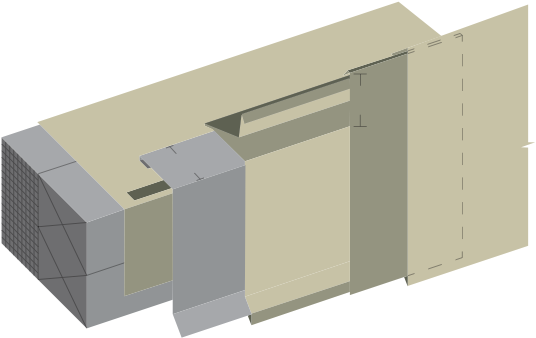
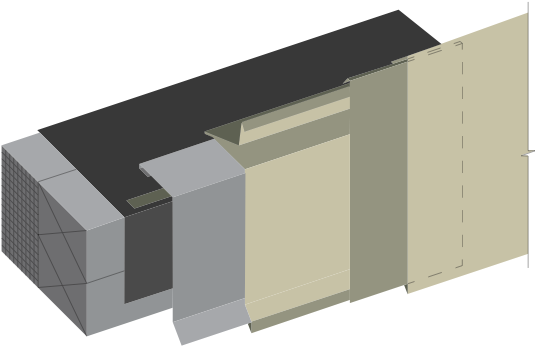
coloration

diff --git a/public/html/home.html b/public/html/home.html
@@ -3,8 +3,8 @@
         <div class="container">
             <div class="col s12 m5">
                 <div class="card-panel" id="index-banner-card">
-                    <span class="blue-text text-darken-4" id="index-banner-card-text">Streamlining the supply of construction materials to professional contractors for 100 years
-              </span>
+                    <h1 class="blue-text text-darken-4" id="index-banner-card-text">Streamlining the supply of construction materials to professional contractors for 100 years
+                    </h1>
                 </div>
             </div>
         </div>
@@ -19,8 +19,7 @@
                         <a ui-sref="streamline_panels({ cat: 'streamline_metal_panels' })" class="btn-floating btn-large halfway-fab waves-effect waves-light amber darken-3"><i class="material-icons">link</i></a>
                     </div>
                     <div class="card-content index-3-cards-content">
-                        <p>Our Streamline panels are the original series of metal cladding in the Tri-State region. We've since
-                            expanded to a variety of panel systems, always handmade in Queens, New York.</p>
+                        <h3 class="index-cards-text">Our Streamline panels are the original series of metal cladding, always handmade in Queens, New York. We've since expanded to a variety of panel systems.</h3 class="index-cards-text">
                     </div>
                 </div>
             </div>
@@ -32,8 +31,8 @@
                         <a ui-sref="streamline_panels({ cat: 'metal_flashing' })" class="btn-floating btn-large halfway-fab waves-effect waves-light amber darken-3"><i class="material-icons">link</i></a>
                     </div>
                     <div class="card-content index-3-cards-content">
-                        <p>To ensure your cladding and waterproofing systems remain protected from the elements, our ANSI/SPRI-ES1
-                            tested metal flashings tie into a variety of systems.</p>
+                        <h3 class="index-cards-text">To ensure your cladding and waterproofing systems remain protected from the elements, our ANSI/SPRI-ES1
+                            tested metal flashings tie into a variety of systems.</h3 class="index-cards-text">
                     </div>
                 </div>
             </div>
@@ -45,8 +44,8 @@
                         <a ui-sref="supplies" class="btn-floating btn-large halfway-fab waves-effect waves-light amber darken-3"><i class="material-icons">link</i></a>
                     </div>
                     <div class="card-content index-3-cards-content">
-                        <p>From below grade waterproofing, to air-and-vapor building wraps, to flat roofing, we are aligned
-                            with the best manufacturers of Division 7 building products in the industry.</p>
+                        <h3 class="index-cards-text">From below grade waterproofing, to air-and-vapor building wraps, to flat roofing, we are aligned
+                            with the best manufacturers of Division 7 building products in the industry.</h3 class="index-cards-text">
                     </div>
                 </div>
             </div>

diff --git a/public/scripts/controller_prods.js b/public/scripts/controller_prods.js
@@ -23,23 +23,57 @@ angular.module('app_litsco')
         };
 
         $scope.hoverColor = ' ';
-        $scope.hoverColorText = function (color) {
-            if (color) {
-                $scope.hoverColor = color;
-                updateSvgFill(this.hex);
+        $scope.hoverColorText = function (selectedHover) {
+            if (selectedHover.hex) {
+                $scope.hoverColor = selectedHover.color;
+                updateGradient(selectedHover.hex);
+                updateSvgFill();
             }
         };
 
         $scope.defaultFill = function (colors) {
             if (colors) {
                 var defaultColor = colors[Object.keys(colors)[0]];
-                updateSvgFill(defaultColor);
+                createGradient($('svg')[0], 'MyGradient', [
+                    { offset: '10%', 'stop-color': createShade(defaultColor, 0.2) },
+                    { offset: '100%', 'stop-color': defaultColor }
+                ]);
+                updateSvgFill();
                 return true;
             }
         };
 
+        function updateGradient(color) {
+            $('linearGradient#MyGradient #stop-0').attr('stop-color', createShade(color, 0.2));
+            $('linearGradient#MyGradient #stop-1').attr('stop-color', color);
+        }
+
+
+        function createGradient(svg, id, stops) {
+            var svgNS = svg.namespaceURI;
+            var grad = document.createElementNS(svgNS, 'linearGradient');
+            grad.setAttribute('id', id);
+            for (var i = 0; i < stops.length; i++) {
+                var attrs = stops[i];
+                var stop = document.createElementNS(svgNS, 'stop');
+                stop.id = 'stop-' + i;
+                for (var attr in attrs) {
+                    if (attrs.hasOwnProperty(attr)) stop.setAttribute(attr, attrs[attr]);
+                }
+                grad.appendChild(stop);
+            }
+
+            var defs = svg.querySelector('defs') || svg.insertBefore(document.createElementNS(svgNS, 'defs'), svg.firstChild);
+            return defs.appendChild(grad);
+        }
+
+        function createShade(color, percent) {
+            var f = parseInt(color.slice(1), 16), t = percent < 0 ? 0 : 255, p = percent < 0 ? percent * -1 : percent, R = f >> 16, G = f >> 8 & 0x00FF, B = f & 0x0000FF;
+            return "#" + (0x1000000 + (Math.round((t - R) * p) + R) * 0x10000 + (Math.round((t - G) * p) + G) * 0x100 + (Math.round((t - B) * p) + B)).toString(16).slice(1);
+        }
+
         function updateSvgFill(hex) {
-            $('.hover_color_change').attr('fill', hex);
+            $('.hover_color_change').attr('fill', 'url(#MyGradient)');
         }
 
         if ($scope.productIdObj.portfolio) {

diff --git a/public/html/template_product.html b/public/html/template_product.html
@@ -7,9 +7,9 @@
         <div class="container">
             <div class="row center">
                 <div class="col s12">
-                    <h2 class="product-name-heading oswald">{{ productIdObj.productName }}</h2>
+                    <h1 class="product-name-heading oswald">{{ productIdObj.productName }}</h1>
                     <div class="divider"></div>
-                    <h6 class="product-name-subhead">{{ productIdObj.subHeader }}</h6>
+                    <h2 class="product-name-subhead">{{ productIdObj.subHeader }}</h2>
                 </div>
             </div>
             <div ng-if="productIdObj.colors" class="row flex-row-wrap">
@@ -20,7 +20,7 @@
                     <h5>Select Your Color</h5>
                     <div class="product-color-list">
                         <div ng-repeat="(color, hex) in productIdObj.colors" class="product-color-chip-container" style="margin: 10px;">
-                            <div ng-mouseover="hoverColorText(color)" ng-mouseleave="hoverColorText()" class="z-depth-2 product-color-chip {{color}}"
+                            <div ng-mouseover="hoverColorText(this)" class="z-depth-2 product-color-chip {{color}}"
                                 alt="{{ hoverColor }}" style="background-color: {{ hex }};"></div>
                         </div>
                     </div>

diff --git a/public/css/style.css b/public/css/style.css
@@ -19,6 +19,12 @@ main {
     font-family: 'Oswald', sans-serif;
     font-size: 3em;
     text-transform: uppercase;
+    line-height: 1.5em;
+}
+
+.index-cards-text {
+    font-size: 1.15em;
+    line-height: 1.5em;
 }
 
 /*MATERIALIZE OVERRIDES*/
@@ -367,6 +373,7 @@ i.point-right {
 .wrapper-how-circle .index-how-text{
     padding: 0 32px;
     font-size: 1.2em;
+    text-align: left;
 }
 
 .about-svg-wrapper {
@@ -715,7 +722,7 @@ map {
     }
 
     .card-content.index-3-cards-content {
-        height: 240px;
+        height: 300px;
     }
 
 

diff --git a/public/html/template_productlist.html b/public/html/template_productlist.html
@@ -3,7 +3,7 @@
         <div class="col s12">
             <h1 class="product-name-heading oswald">{{ productHeader }}</h1>
             <div class="divider"></div>
-            <h3 class="product-subheader">{{ productSubheader }}</h3>
+            <h2 class="product-subheader">{{ productSubheader }}</h2>
             <p>{{ productDescription }}</p>
         </div>
     </div>

diff --git a/public/scripts/factory_litsco.js b/public/scripts/factory_litsco.js
@@ -346,6 +346,7 @@ angular.module('app_litsco')
                 "Silver Metallic": "#66727a",
                 "Slate Gray": "#2f2e2c",
                 "Matte Black": "#232021",
+                "Pre-Patina Green": "#599671",
                 "Custom Painted": "#FFF"
             },
             "illustration": "flatwall_sm",
